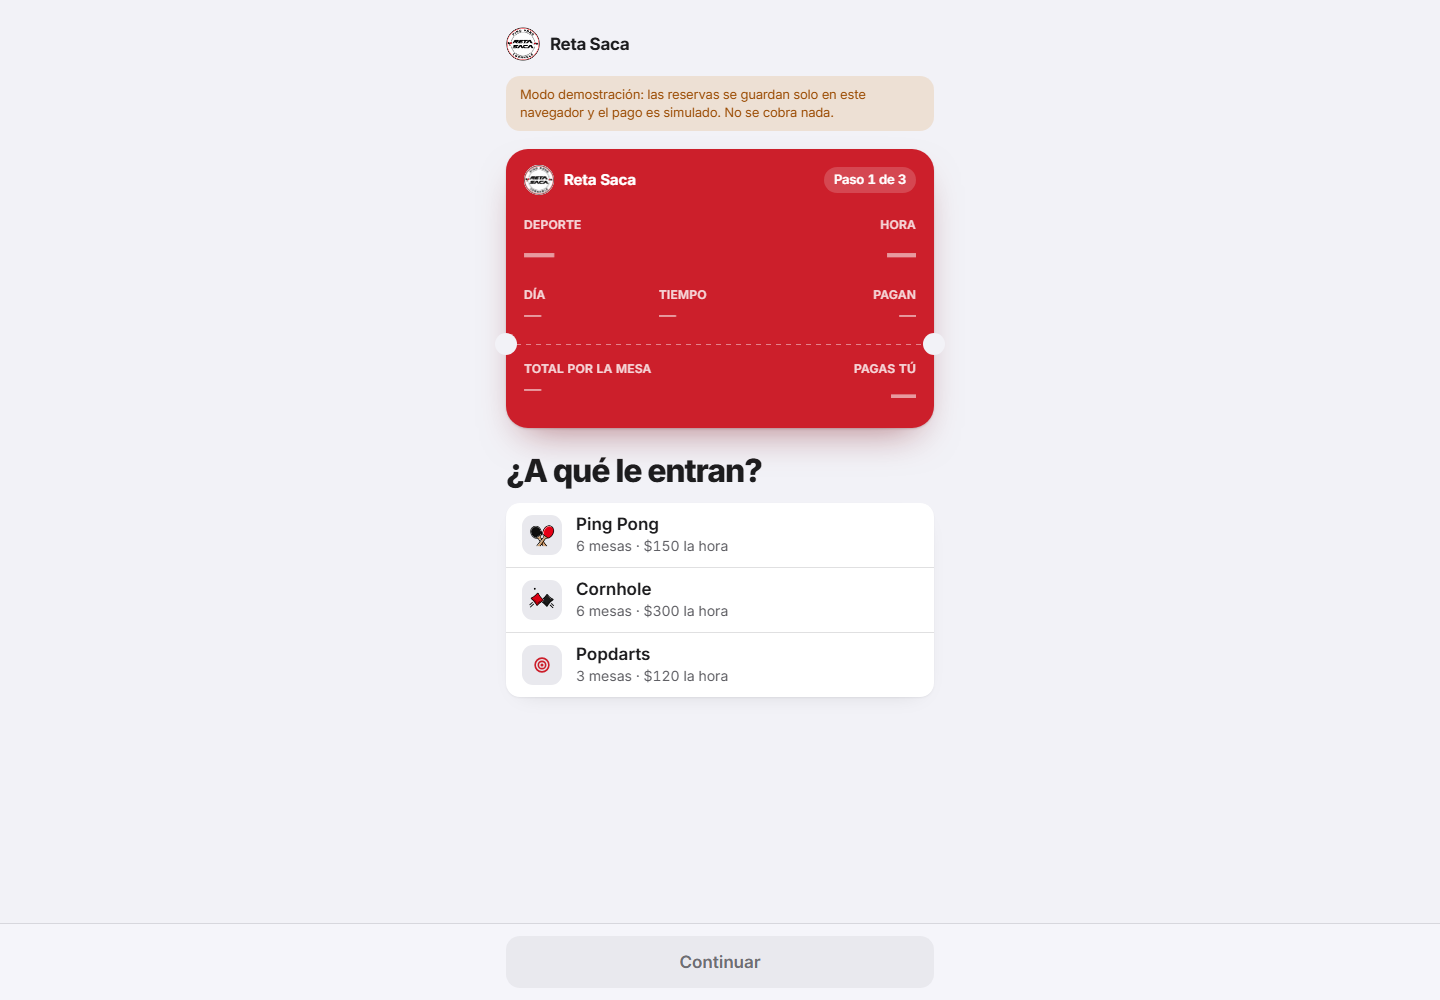
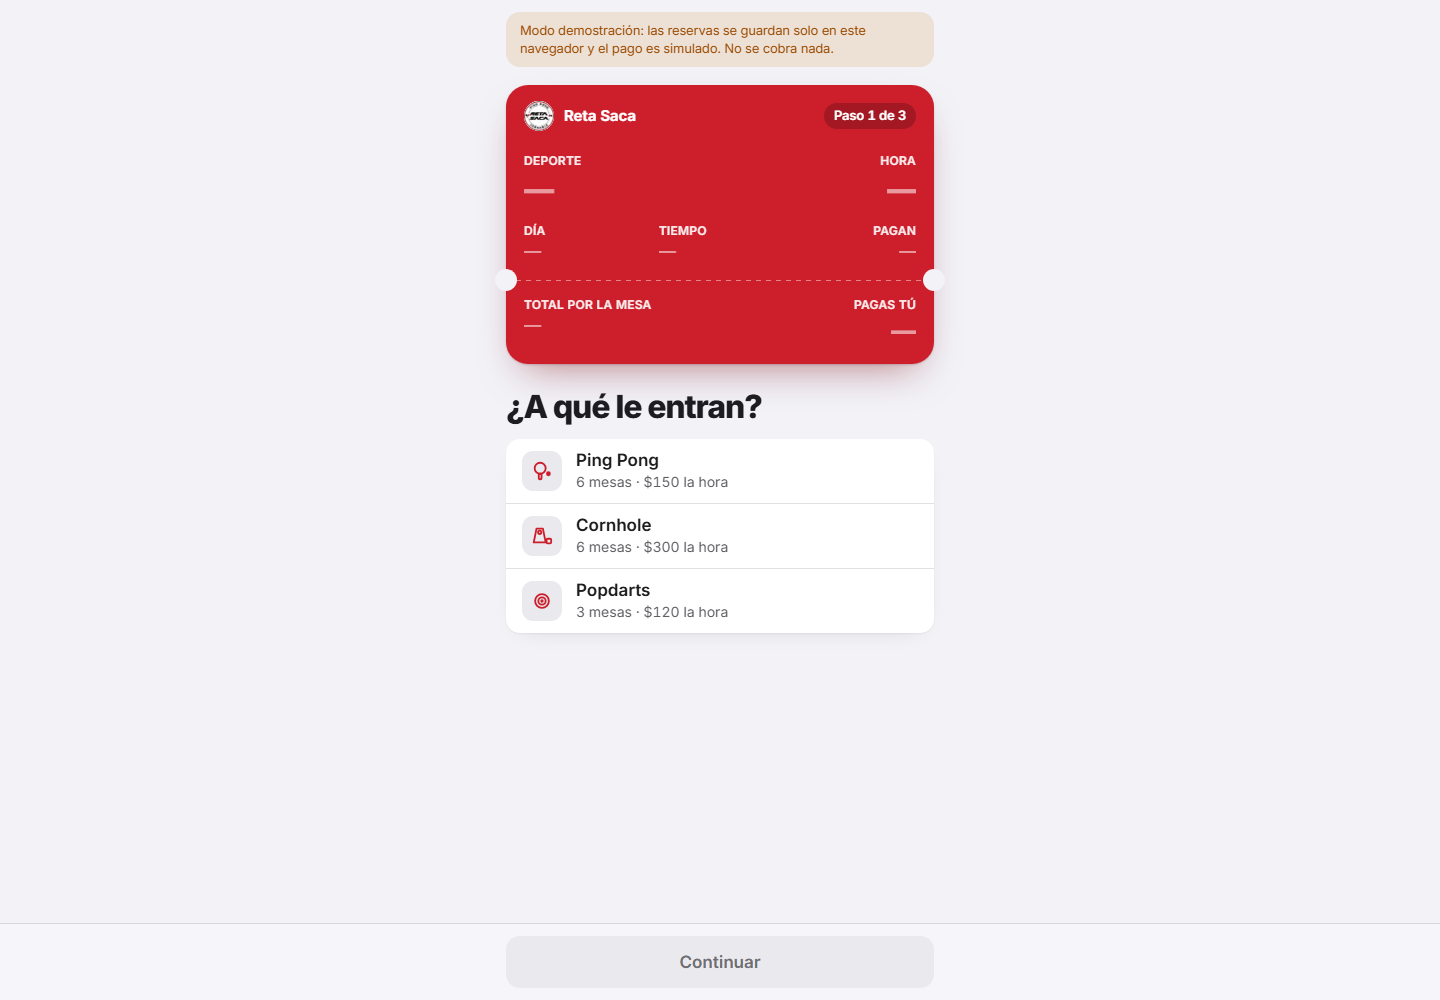
El sitio del cliente se queda solo en teléfono, y los íconos se leen como su deporte
El dueño pidió que las reservas se hagan desde el celular, así que no se agrega
una composición de escritorio: en computadora se ve la misma columna centrada.
Queda en el registro de decisiones de RESERVAS.md.

El ícono de Ping Pong era un aro con un trazo en diagonal, igual a la lupa de
"buscar"; ahora es una paleta con el mango corto hacia abajo y la pelota al lado.
El de Cornhole tenía el costal dentro del tablero y parecía una bocina; ahora el
tablero va en perspectiva con el hoyo arriba y el costal por fuera.

Changed region(s): [[0.3438, 0.0, 0.6562, 0.682], [0.3438, 0.217, 0.5, 0.31], [0.4688, 0.217, 0.5, 0.248]]

diff --git a/src/vista/IconoDeporte.tsx b/src/vista/IconoDeporte.tsx
@@ -11,18 +11,20 @@ export function IconoDeporte({ id, config }: { id: DeporteId; config: Configurac
     <svg width="22" height="22" viewBox="0 0 24 24" fill="none" stroke="currentColor" strokeWidth="2" strokeLinecap="round" strokeLinejoin="round" aria-hidden="true">
       {icono === 'paleta' && (
         <>
-          {/* Paleta con su mango y la pelota. */}
-          <circle cx="10" cy="10" r="6" />
-          <path d="M14.2 14.2l4.3 4.3" />
-          <circle cx="19" cy="5" r="1.4" fill="currentColor" />
+          {/* Paleta con el mango corto y ancho hacia abajo, y la pelota al lado. El
+              mango en diagonal y delgado se leía como la lupa de "buscar". */}
+          <circle cx="10" cy="9" r="6" />
+          <rect x="8.5" y="15" width="3" height="6" rx="1.2" />
+          <circle cx="19" cy="15" r="1.6" fill="currentColor" />
         </>
       )}
       {icono === 'costal' && (
         <>
-          {/* Tablero de cornhole con su hoyo, y un costal. */}
-          <path d="M8 3h8l3 18H5L8 3z" />
-          <circle cx="12" cy="8" r="2" />
-          <rect x="9" y="14" width="6" height="4" rx="1" />
+          {/* Tablero en perspectiva con el hoyo arriba, y el costal fuera del
+              tablero. Con el costal adentro parecía una bocina. */}
+          <path d="M6 4h7l3 15H3L6 4z" />
+          <circle cx="9.5" cy="8" r="1.8" />
+          <rect x="17" y="15" width="5" height="5" rx="1.2" />
         </>
       )}
       {icono === 'diana' && (

diff --git a/RESERVAS.md b/RESERVAS.md
@@ -514,3 +514,4 @@ cambia, se agrega una línea nueva con la fecha; no se borra la anterior.
 | 28/09/2026 | Las reglas de cada operación viven en `src/negocio/operaciones`, escritas una vez | La versión real las llama igual que la simulada; antes habría tenido que reescribirlas. |
 | 28/09/2026 | El panel funciona como caja: al cliente sin reserva se le cobra al registrarlo, en un solo paso | Nadie juega sin pagar; registrar y cobrar por separado hacía fácil olvidar el cobro. |
 | 28/09/2026 | La caja solo cobra renta de mesas; cierre por día, sin fondo ni arqueo; comprobante: ticket de la terminal | Así opera el local. |
+| 28/09/2026 | El sitio del cliente se diseña solo para teléfono; en computadora se ve la misma columna centrada | Los clientes reservan desde el celular. Una segunda composición de escritorio era doble trabajo que nadie iba a usar. |
